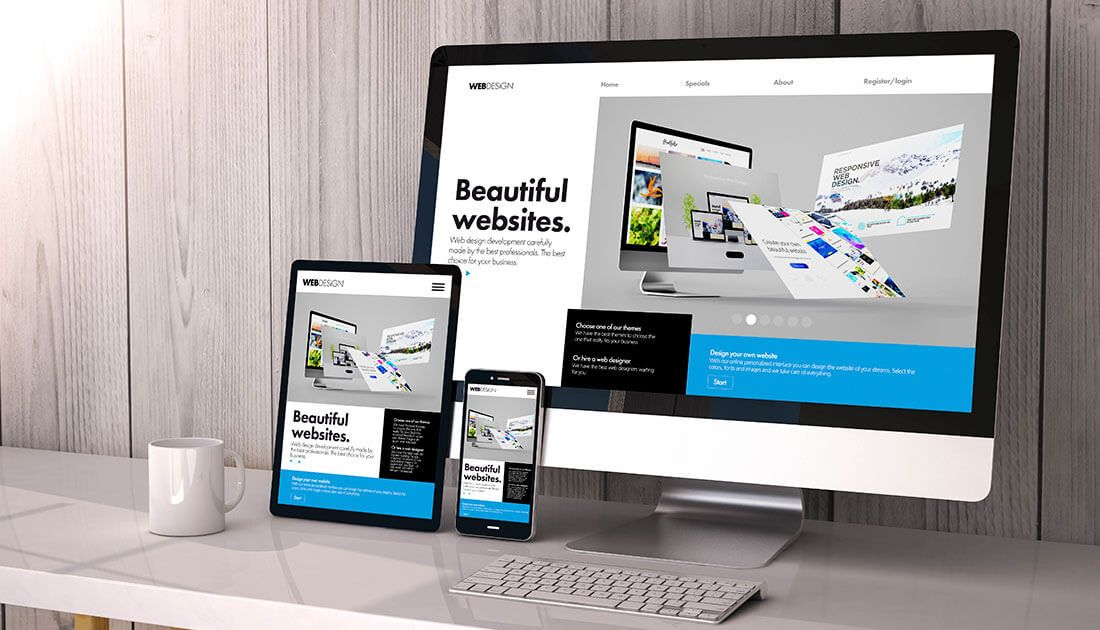
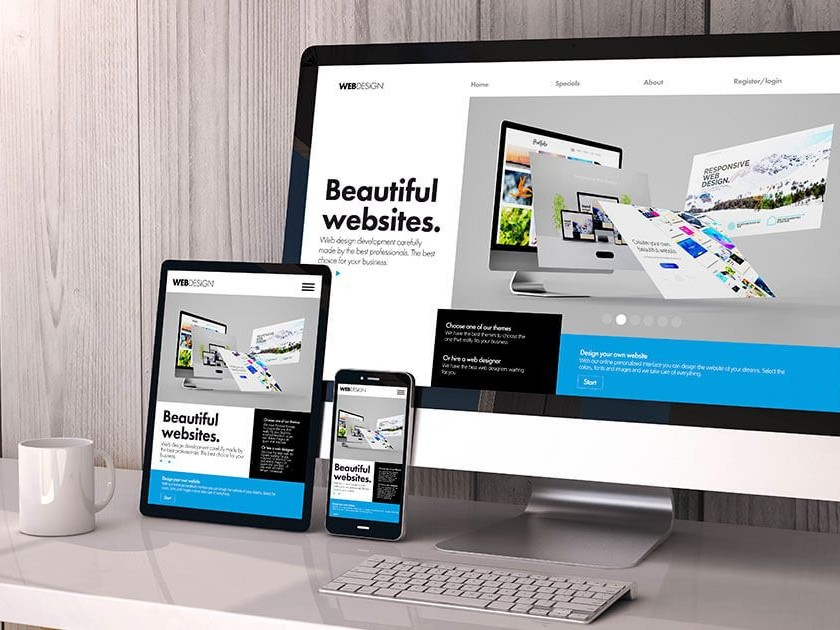
fontawesome link creado

diff --git a/index.html b/index.html
@@ -1,59 +1,69 @@
-<!DOCTYPE html>
+<!doctype html>
 <html lang="es">
-<head>
-    <meta charset="UTF-8">
-    <meta name="viewport" content="width=device-width, initial-scale=1.0">
+  <head>
+    <meta charset="UTF-8" />
+    <meta name="viewport" content="width=device-width, initial-scale=1.0" />
     <title>JuliaWeb</title>
-    <link rel="stylesheet" href="css/estilos.css">
-</head>
-<body>
+    <link rel="stylesheet" href="css/estilos.css" />
+    <!-- Enlace a los estilos de fontawesome, librería de iconos -->
+     <link rel="stylesheet" href="https://cdnjs.cloudflare.com/ajax/libs/font-awesome/7.3.1/css/all.min.css">
+  </head>
+  <body>
     <header>
-        <p id="jw">JW</p>
-        <nav>
-            <a href="">Julia Web</a>
-            <a href="">Trabajos</a>
-            <a href="">Contacto</a>
-        </nav>
+      <p id="jw">JW</p>
+      <nav>
+        <a href="">Julia Web</a>
+        <a href="">Trabajos</a>
+        <a href="">Contacto</a>
+      </nav>
     </header>
     <main>
+      <div id="julia">
+        <h1>Julia Granados del Valle</h1>
+        <h2>Desarrolladora Web</h2>
+        <p>La web con estilo</p>
+      </div>
+      <div id="avatar">
+        <img src="imagenes/julia.jpeg" alt="" />
+      </div>
 
-        <div id="julia">
-            <h1>Julia Granados del Valle</h1>
-            <h2>Desarrolladora Web</h2>
-            <p>La web con estilo</p>
+      <div id="trabajos">
+        <div class="tarjeta-trabajo">
+          <img src="imagenes/ecomerce.jpg" alt="" />
+          <div class="texto-tarjeta">
+            <h2>Comercio online</h2>
+            <p>Comercio online con cobros integrados</p>
+            <button>Ver más</button>
+          </div>
         </div>
-        <div id="avatar">
-            <img src="imagenes/julia.jpeg" alt="">
+        <div class="tarjeta-trabajo">
+          <img src="imagenes/responsive.jpg" alt="" />
+          <div class="texto-tarjeta">
+            <h2>Diseño responsive</h2>
+            <p>Diseño adaptado a todos los dispositivos, Aplicación para gestionar las tareas, Aplicación para gestionar las tareas, Aplicación para gestionar las tareas</p>
+            <button>Ver más</button>
+          </div>
         </div>
-        
-        <div id="trabajos">
-            <div class="tarjeta-trabajo">
-                <img src="imagenes/ecomerce.webp" alt="">
-                <h2>Comercio online</h2>
-                <p>Comercio online con cobros integrados</p>
-            </div>
-            <div class="tarjeta-trabajo">
-                <img src="imagenes/responsive.jpg" alt="">
-                <h2>Diseño responsive</h2>
-                <p>Diseño adaptado a todos los dispositivos</p>
-            </div>
-            <div class="tarjeta-trabajo">
-                <img src="imagenes/tareas.jpg" alt="">
-                <h2>Aplicación tareas</h2>
-                <p>Aplicación para gestionar las tareas</p>
-            </div>
+        <div class="tarjeta-trabajo">
+          <img src="imagenes/tareas.jpg" alt="" />
+          <div class="texto-tarjeta">
+            <h2>Aplicación tareas</h2>
+            <p>Aplicación para gestionar las tareas, Aplicación para gestionar las tareas, Aplicación para gestionar las tareas, Aplicación para gestionar las tareas</p>
+            <button>Ver más</button>
+          </div>
         </div>
-        
-        
-        
+      </div>
     </main>
     <footer>
-        <a href="tel:+34123456789">34 123 456 789</a>
-        <a href="mailto:juliaweb@gmail.com">juliaWeb@gmail.com</a>
-        
-        <a href="https://es-es.facebook.com/">Facebook</a>
-        <a href="https://www.instagram.com/">Instagram</a>
-        <a href="https://x.com/">X</a>
+        <div class="footer-contato">
+            <a href="tel:+34123456789">34 123 456 789</a>
+            <a href="mailto:juliaweb@gmail.com">juliaWeb@gmail.com</a>
+        </div>
+        <div class="footer-redes">
+            <a href="https://es-es.facebook.com/">Facebook</a>
+            <a href="https://www.instagram.com/">Instagram</a>
+            <a href="https://x.com/">X</a>
+        </div>
     </footer>
-</body>
+  </body>
 </html>

diff --git a/css/estilos.css b/css/estilos.css
@@ -74,8 +74,22 @@ h1{
     border: solid 1px rgba(129, 118, 118, 0.456);
     border-radius: 2%;
     box-shadow: 8px 8px 17px -5px rgb(0 0 0 / 12%);
+    display: flex;
+    flex-direction: column;
 }
 
 .tarjeta-trabajo img {
     width: 100%;
+}
+
+.texto-tarjeta {
+    padding: 2%;
+    text-align: center;
+    flex: 1;
+    display: flex;
+    flex-direction: column;
+}
+
+.texto-tarjeta button {
+    margin-top: auto;
 }
